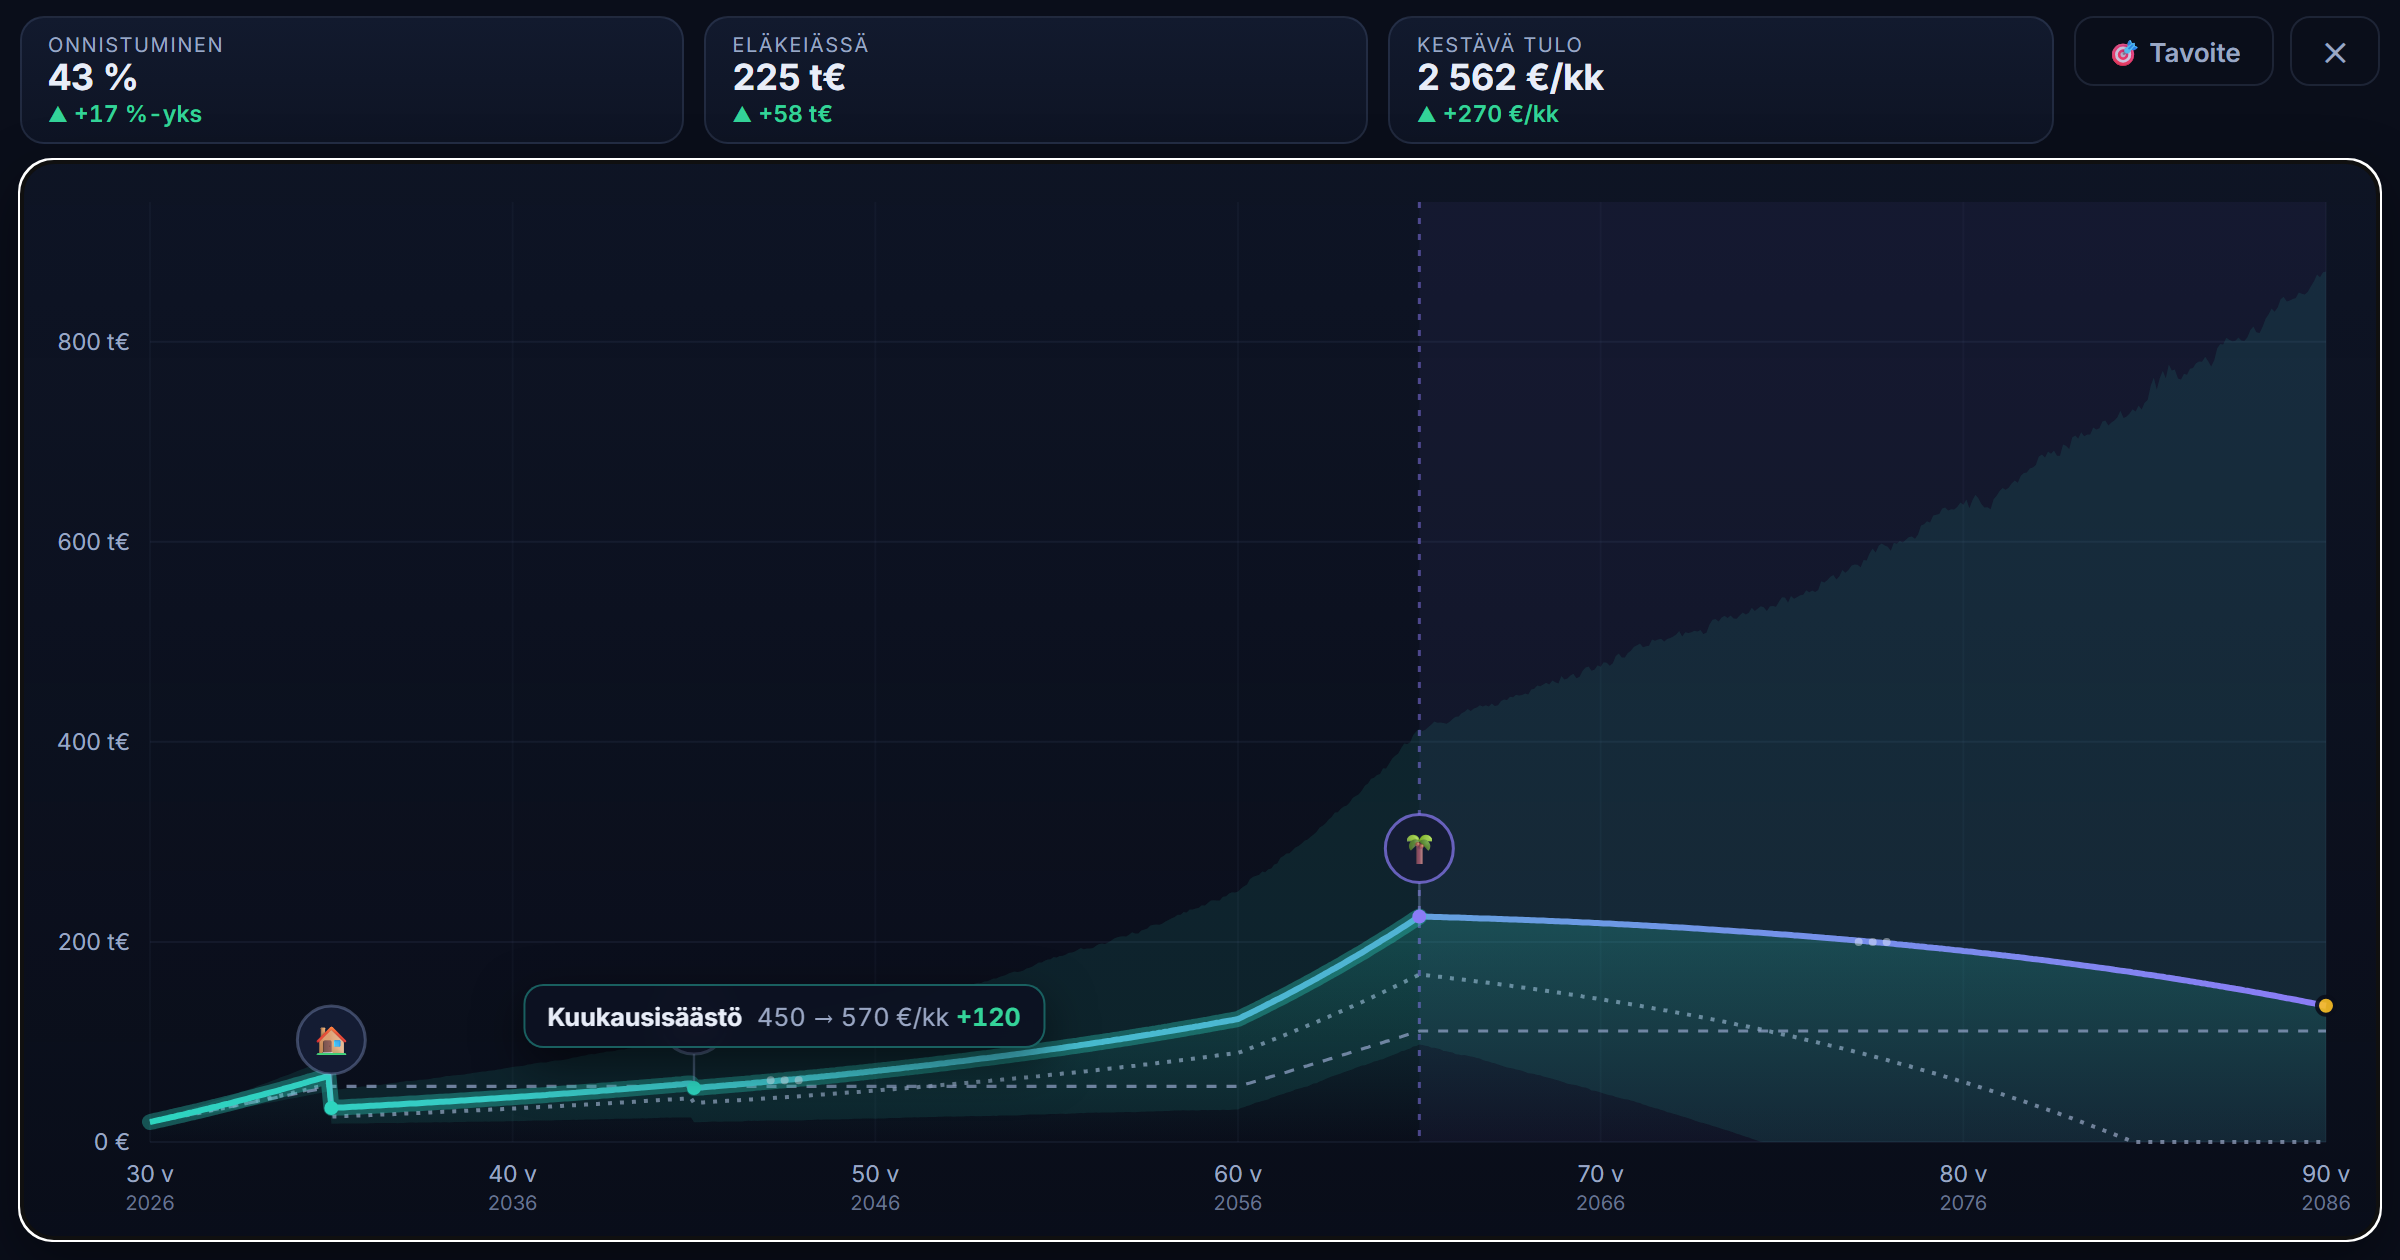
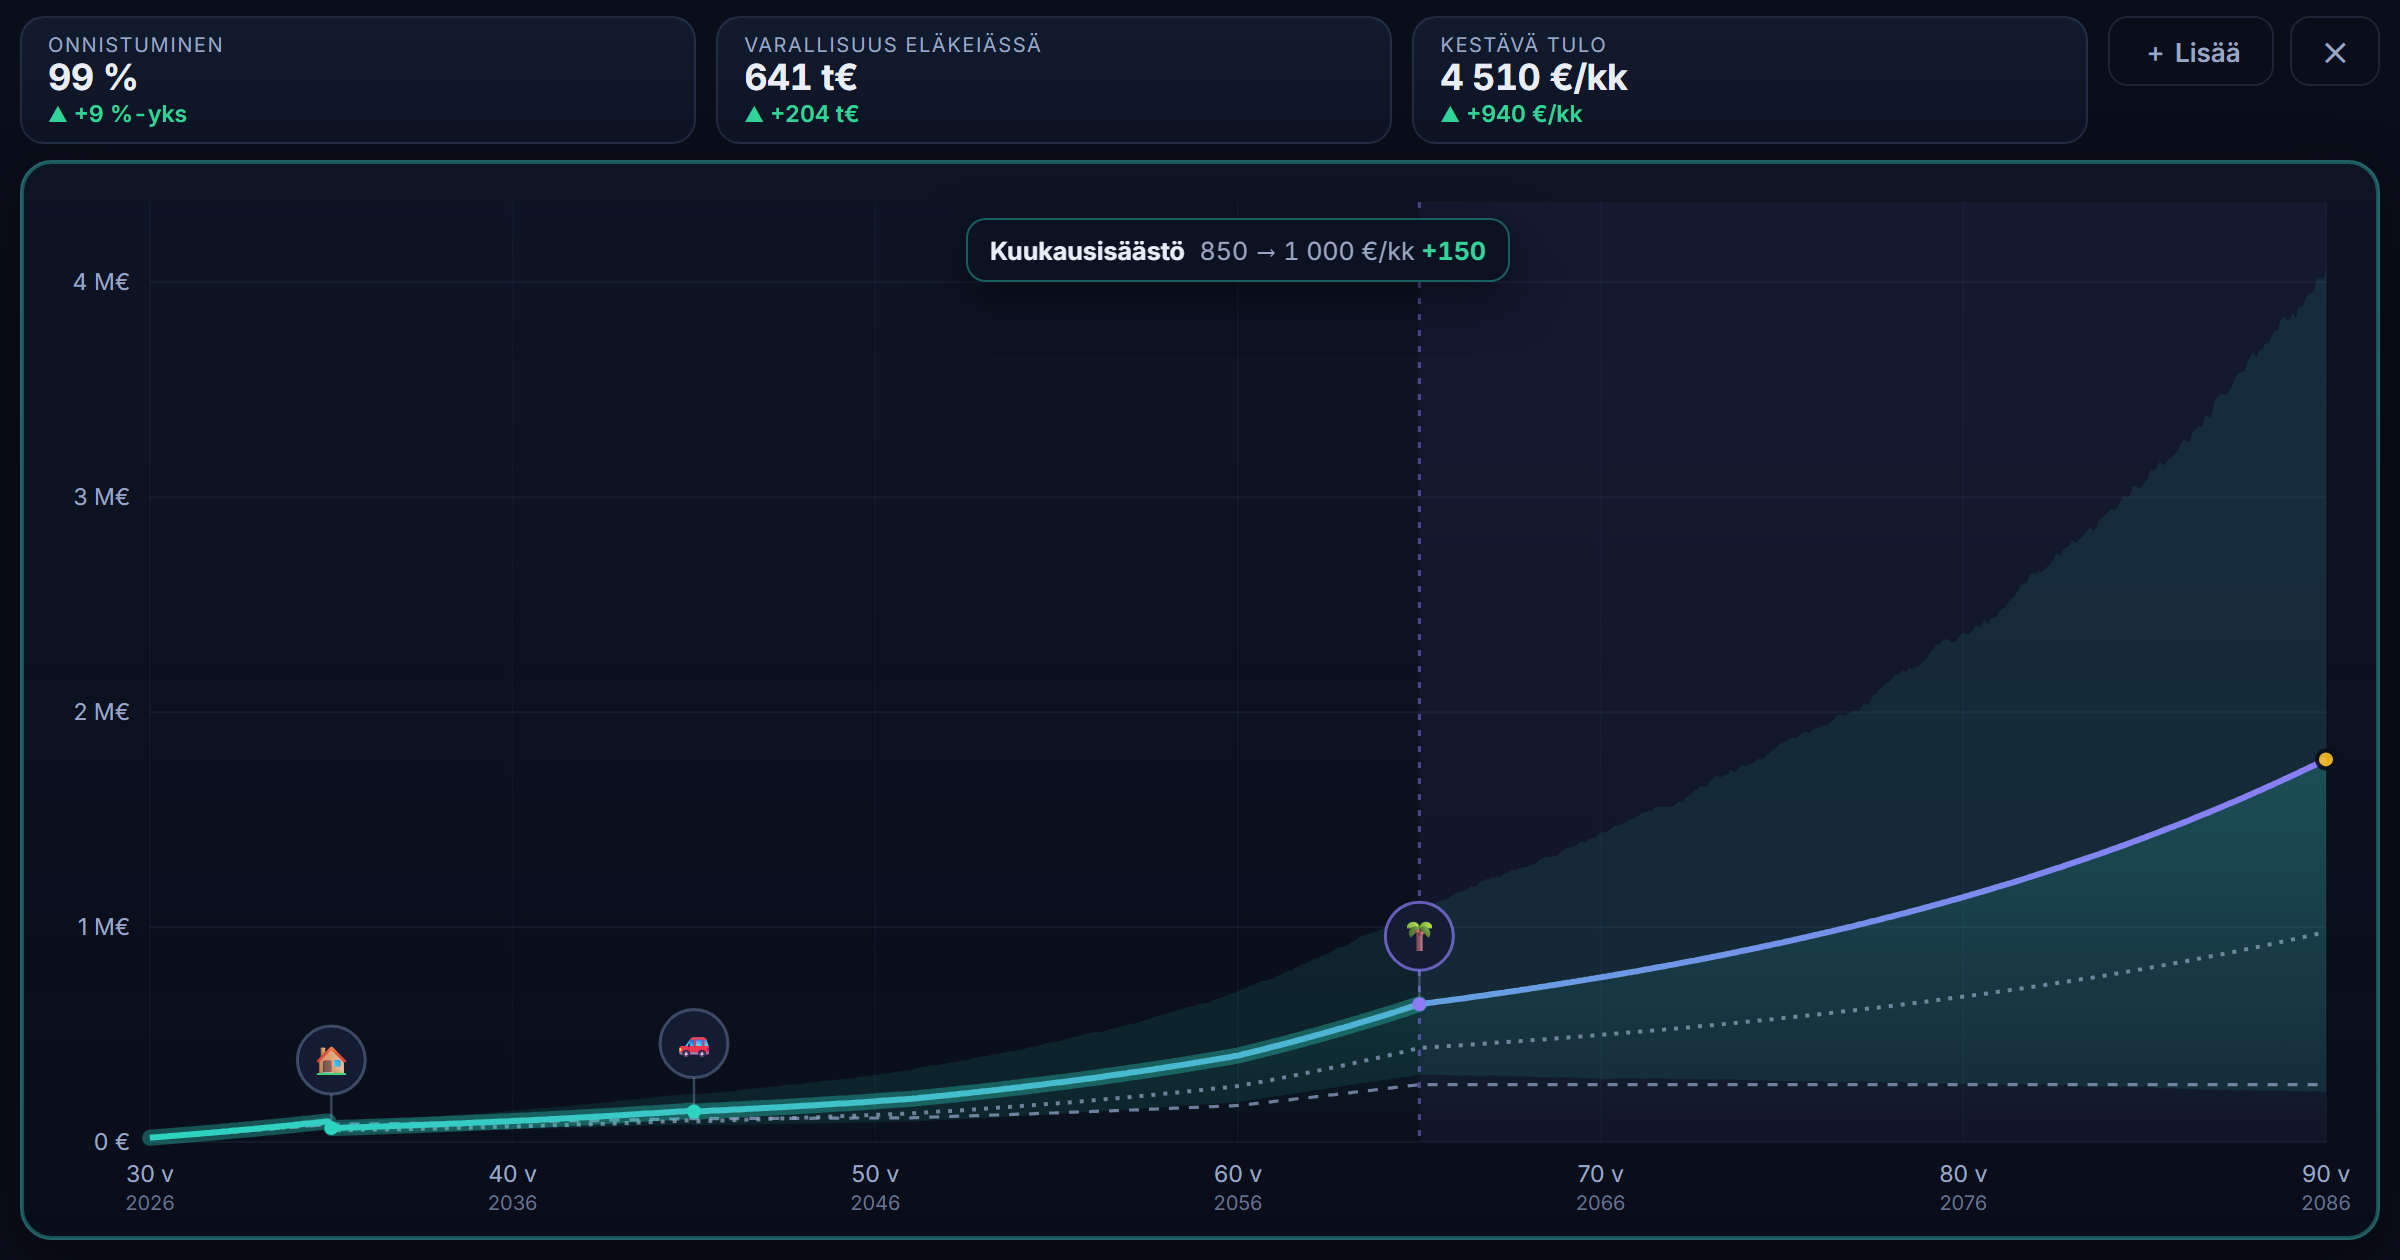
SW-välimuisti v5 + og.png ja demo uusiksi nykyisestä UI:sta
- CACHE v4→v5: Pro, Perhevirta ja jaetut hankinnat tulivat v4:n jälkeen;
  bumppaus pitää offline-asennuserän eheänä parina (app.js+laskenta.js)
- og.png: piirtopöytä nykyisellä HUDilla ja telakoidulla chipillä,
  lavastus 850→1000 €/kk (onnistuminen 99 %, vihreät deltat)
- demo.gif/mp4: pehmeämmät vedot (käyrä +510 €/kk, eläkeikä 65→60)

diff --git a/sw.js b/sw.js
@@ -5,7 +5,7 @@
    välimuistista. Näin julkaisut päivittyvät heti kun verkko on käytössä,
    mutta sovellus toimii myös kokonaan ilman yhteyttä. */
 
-const CACHE = 'varallisuuspolku-v4';
+const CACHE = 'varallisuuspolku-v5'; // bump isoissa julkaisuissa: asennuserä pysyy eheänä parina
 const CORE = [
   './',
   './index.html',